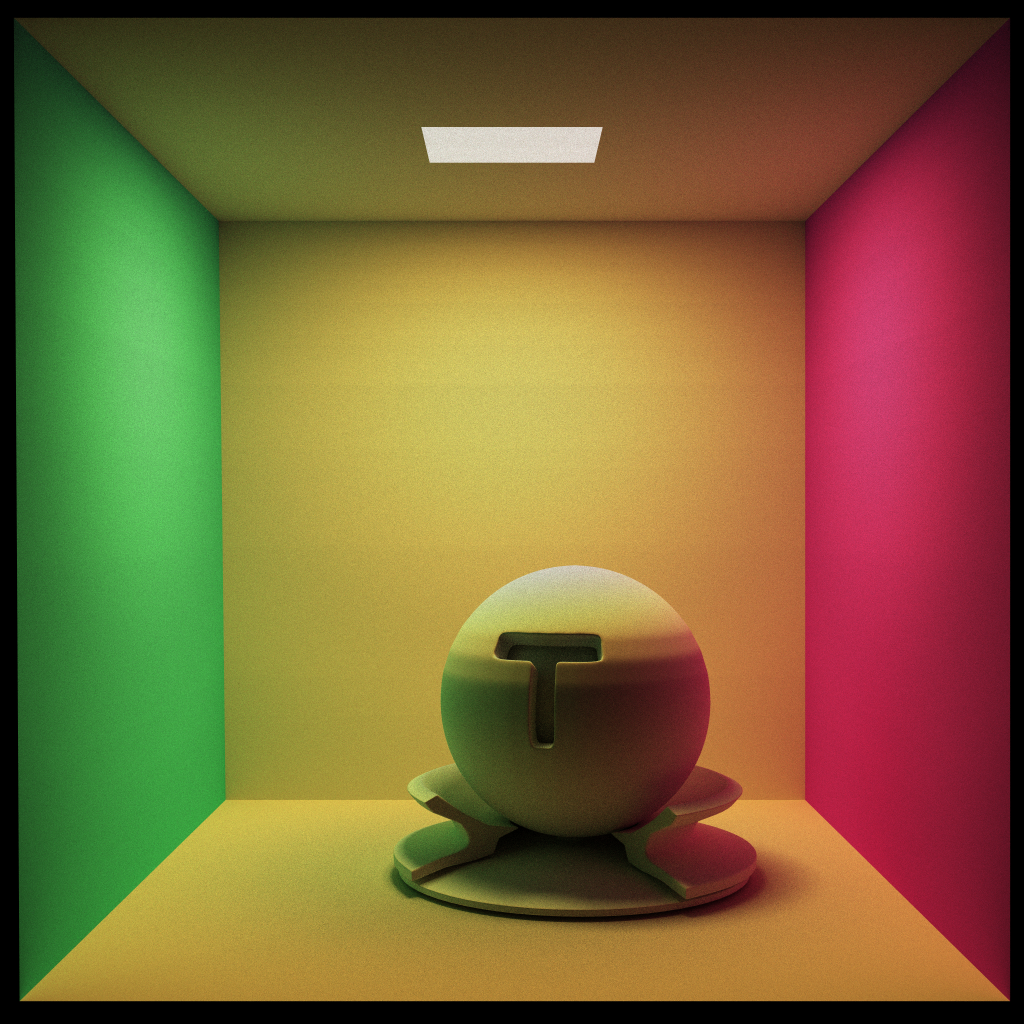
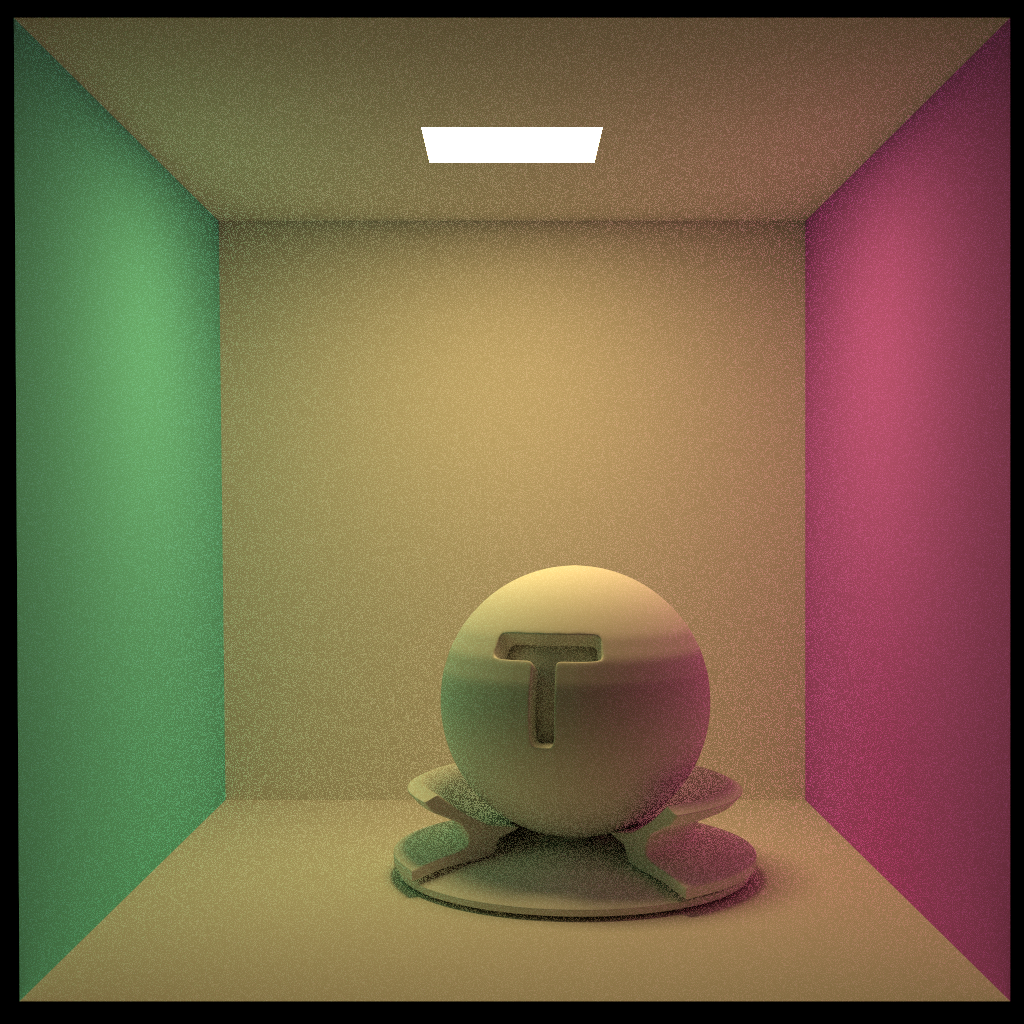
chore: results 清理（删 .hdr 与 spp=4 图），并在代码里暂时注释掉 HDR 保存
1) src/pathTracer.cpp 的 save() 中注释掉 saveHDR(modelName) 调用（saveHDR 实现保留，
   以后需要线性域 HDR 时取消注释即可）。.hdr 只用于调试，仓库里已有 *.hdr 忽略规则。
2) 删除 results/ 下 8 个 .hdr 调试产物（未被 git 跟踪）。
3) 移除两张已入库的低 spp 图：results/bathroom2_4.png、results/veach-mis_4.png。

diff --git a/src/pathTracer.cpp b/src/pathTracer.cpp
@@ -96,7 +96,9 @@ void PathTracer::saveHDR(const std::string& modelName) const {
 void PathTracer::save(std::string modelName) const {
 	stbi_flip_vertically_on_write(1);
 	developImage();
-	saveHDR(modelName);
+	//暂时不保存 HDR（.hdr 文件仅用于线性域调试）：需要时取消下面这行注释即可，
+	//saveHDR() 的实现仍然保留。
+	//saveHDR(modelName);
 	stbi_write_png(modelName.insert(0, "results/").append("_").append(std::to_string(m_spp)).append(".png").c_str(),
 		m_camera->getWidth(), m_camera->getHeight(), 4, m_image, 0);
 }
